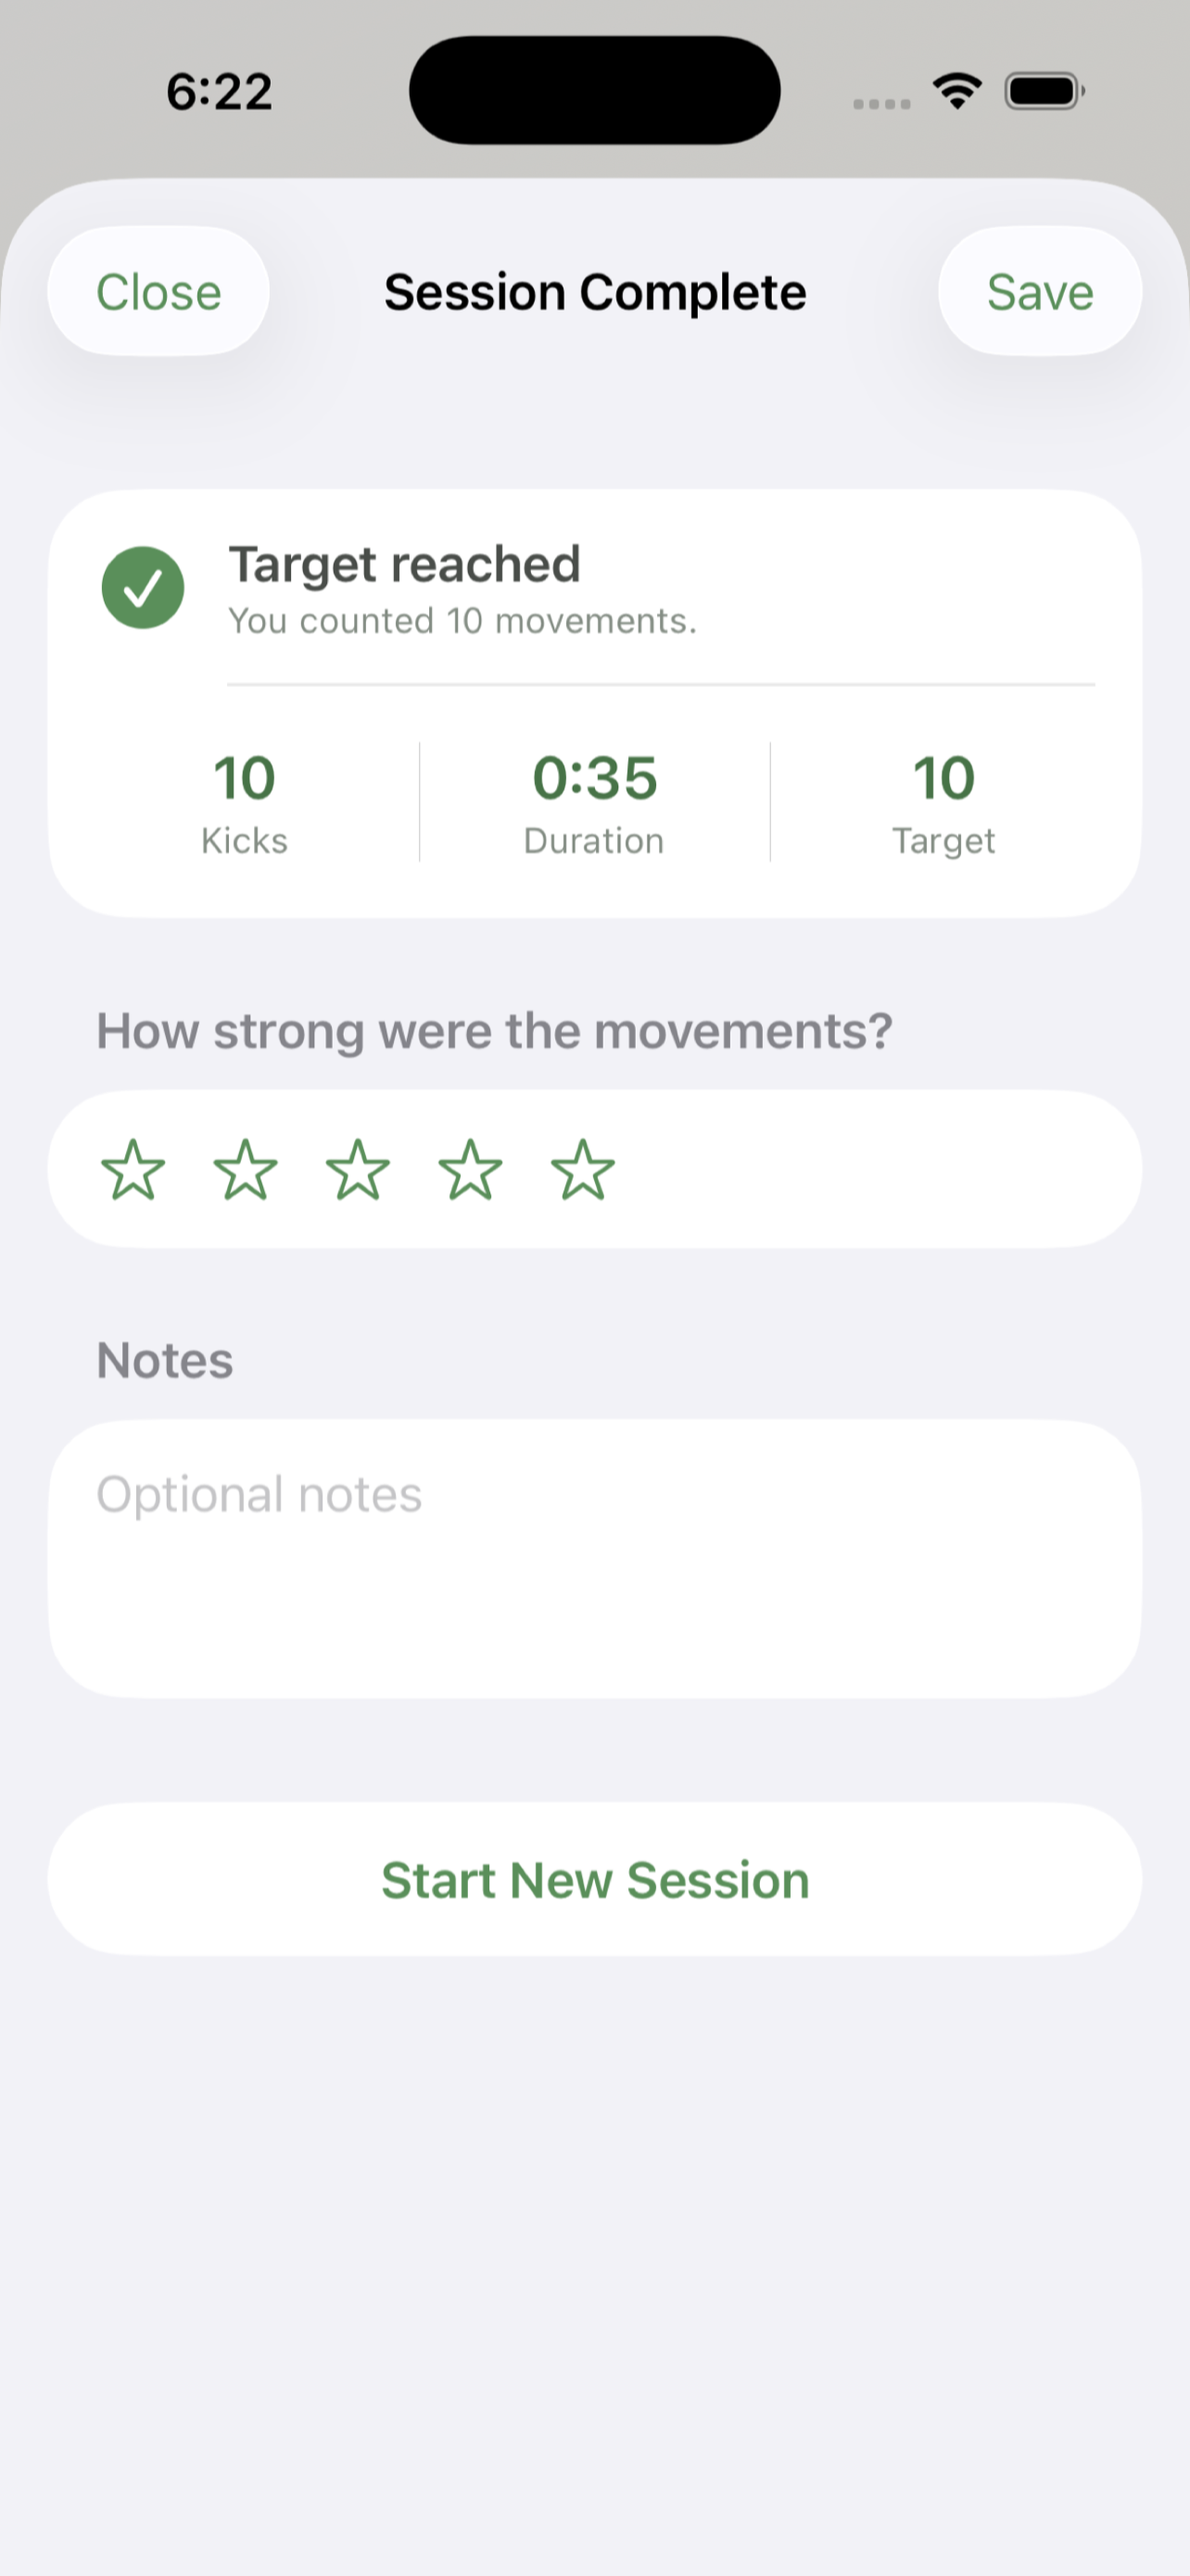
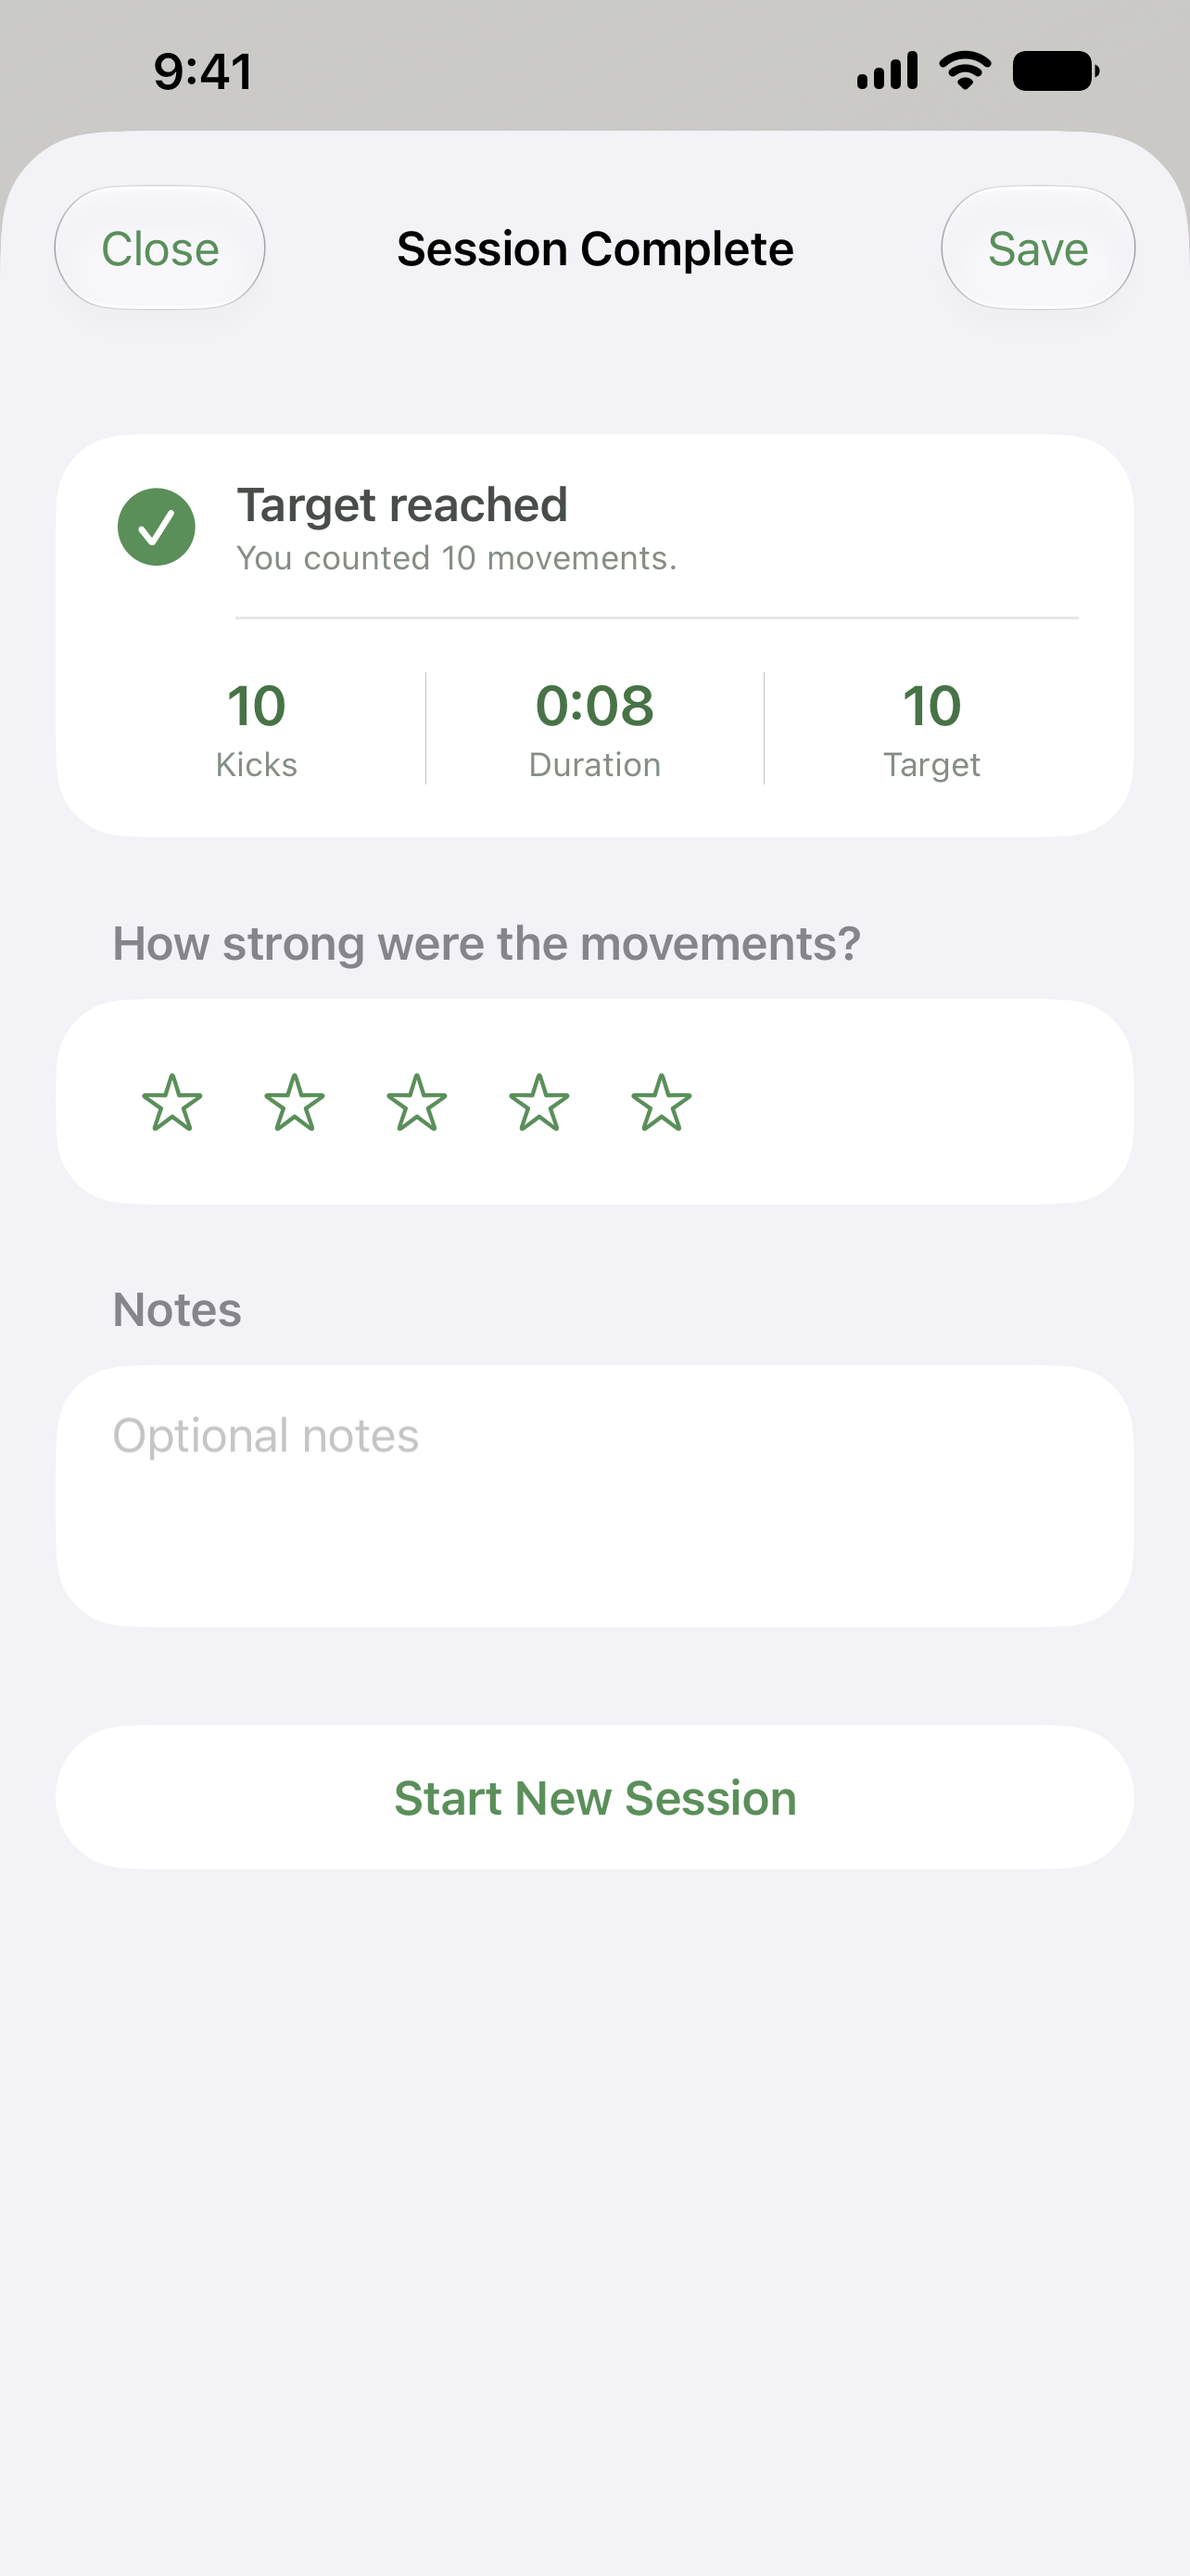
Re-capture App Store screenshots; automate the capture
The uploaded set no longer matched the binary. Most visibly it showed the
app titled "Baby Kick Count" while the build now says "Littletaps" — a
product page naming a different app than the submission is the kind of
mismatch App Review flags. It also predated the light-appearance lock and
the 44pt hit-target work, so row heights were wrong.

Capturing by hand is what let it drift, so this adds a UI test that walks
the app through all nine screens and a script that runs it on a freshly
erased simulator per size. Both required sizes come out of one command:
1320x2868 on iPhone 17 Pro Max for the 6.9-inch slot Apple now requires,
and 1284x2778 on iPhone 14 Plus for the 6.5-inch slot.

The new set is also more consistent than the old one, which had four
different clock times across nine shots and caught two screens
mid-animation — a ghosted tab bar on the counter, a half-scrolled row in
settings. Status bars are pinned to 9:41 with full signal and battery,
and each capture waits for the screen to settle.

Two things the first runs exposed. Onboarding navigation tapped "Next"
twice and assumed both landed; one was swallowed by the page transition,
leaving the test hunting for a button one page ahead. It now waits for
each destination heading to become hittable and retries. And xcodebuild
does not exit after a UI test run on a headless simulator — the tests
pass, then it sleeps indefinitely at 0% CPU — so the script waits for the
[…]

diff --git a/ios/BabyKickCountUITests/ScreenshotCaptureTests.swift b/ios/BabyKickCountUITests/ScreenshotCaptureTests.swift
@@ -1,0 +1,198 @@
+import XCTest
+
+/// Captures the App Store product-page screenshots.
+///
+/// This is tooling rather than a regression test. It walks the app through each
+/// screen and writes full-resolution PNGs into the test runner's Documents
+/// directory, where `Scripts/capture-screenshots.sh` collects them.
+///
+/// It is skipped unless that script asks for it, because it needs a freshly
+/// installed app to reach onboarding and it leaves a completed session behind.
+/// Screenshots have to match the submitted binary, so re-run the script after
+/// any visual change rather than editing the PNGs.
+final class ScreenshotCaptureTests: XCTestCase {
+
+    private var app: XCUIApplication!
+    private var outputDirectory: URL!
+
+    override func setUpWithError() throws {
+        try XCTSkipUnless(
+            ProcessInfo.processInfo.environment["CAPTURE_SCREENSHOTS"] == "1",
+            "run ios/Scripts/capture-screenshots.sh to regenerate the App Store screenshots"
+        )
+        continueAfterFailure = false
+        outputDirectory = try makeOutputDirectory()
+        app = XCUIApplication()
+    }
+
+    func testCaptureAppStoreScreenshots() throws {
+        app.launch()
+
+        // 1-3: onboarding, which only appears on a fresh install. That is why
+        // the script erases the simulator before each run.
+        XCTAssertTrue(
+            waitUntilVisible(app.staticTexts["Welcome to Littletaps"], timeout: 25),
+            "onboarding did not appear — the app was probably already installed"
+        )
+        settle()
+        capture("01_onboarding_welcome")
+
+        advanceOnboarding(to: "One tap at a time")
+        capture("02_onboarding_tap")
+
+        advanceOnboarding(to: "2-hour session")
+        capture("03_onboarding_timer")
+
+        let getStarted = app.buttons["Get Started"]
+        XCTAssertTrue(waitUntilVisible(getStarted), "onboarding never reached 'Get Started'")
+        getStarted.tap()
+
+        // 4: the counter before anything is recorded.
+        let pad = app.buttons["Tap to record a kick"]
+        XCTAssertTrue(waitUntilVisible(pad, timeout: 15), "tap pad not found")
+        settle()
+        capture("04_counter_ready")
+
+        // 5: mid-session. Three of ten, matching the previous set.
+        tapPad(pad, times: 3)
+        settle()
+        capture("05_counter_active")
+
+        // 6: the summary sheet, which presents itself on the tenth tap.
+        tapPad(pad, times: 7)
+        let close = app.buttons["Close"]
+        XCTAssertTrue(waitUntilVisible(close, timeout: 15), "summary sheet did not present")
+        settle()
+        capture("06_session_summary")
+
+        close.tap()
+        settle()
+
+        // 7: history, now holding the session just completed.
+        goToTab("History")
+        settle()
+        capture("07_history")
+
+        // 8: settings.
+        goToTab("Settings")
+        settle()
+        capture("08_settings")
+
+        // 9: the information screen, which carries the medical disclaimer.
+        let info = app.buttons["Information & Help"]
+        var swipes = 0
+        while !info.exists && swipes < 6 {
+            app.swipeUp()
+            settle()
+            swipes += 1
+        }
+        XCTAssertTrue(
+            info.waitForExistence(timeout: 5),
+            "could not reach 'Information & Help' after \(swipes) swipes"
+        )
+        info.tap()
+        settle()
+        capture("09_info")
+    }
+
+    // MARK: - Helpers
+
+    /// Page transitions, the sheet presentation and the tab switch are all
+    /// animated. The previous screenshot set was captured mid-animation — a
+    /// ghosted tab bar in the counter shot, a half-scrolled row in settings —
+    /// so wait for things to come to rest before capturing.
+    private func settle() {
+        usleep(1_500_000)
+    }
+
+    /// `waitForExistence` is not enough here: an element can be in the tree
+    /// while it is still sliding into place, and a tap sent then is dropped.
+    private func waitUntilVisible(_ element: XCUIElement, timeout: TimeInterval = 10) -> Bool {
+        let deadline = Date().addingTimeInterval(timeout)
+        while Date() < deadline {
+            if element.exists && element.isHittable { return true }
+            usleep(200_000)
+        }
+        return false
+    }
+
+    /// Advances one onboarding page and confirms it landed.
+    ///
+    /// The button relabels itself from "Next" to "Get Started" on the last
+    /// page, so the button alone cannot tell you which page you are on — the
+    /// page heading can. A tap issued during the page transition is silently
+    /// swallowed, which is exactly how a previous run ended up two pages in
+    /// after three taps, so retry until the destination heading appears.
+    private func advanceOnboarding(to heading: String,
+                                   file: StaticString = #filePath,
+                                   line: UInt = #line) {
+        let destination = app.staticTexts[heading]
+        let next = app.buttons["Next"]
+
+        for attempt in 1...3 {
+            if waitUntilVisible(destination, timeout: 1) { break }
+
+            XCTAssertTrue(waitUntilVisible(next),
+                          "onboarding 'Next' button never became tappable",
+                          file: file, line: line)
+            next.tap()
+
+            if waitUntilVisible(destination, timeout: 6) { break }
+            XCTAssertLessThan(attempt, 3,
+                              "onboarding never advanced to '\(heading)'",
+                              file: file, line: line)
+        }
+        settle()
+    }
+
+    private func tapPad(_ pad: XCUIElement, times: Int) {
+        for _ in 0..<times {
+            guard pad.isEnabled, pad.isHittable else { return }
+            pad.tap()
+            usleep(400_000)
+        }
+    }
+
+    private func goToTab(_ name: String,
+                         file: StaticString = #filePath,
+                         line: UInt = #line) {
+        let tab = app.buttons[name]
+        XCTAssertTrue(waitUntilVisible(tab, timeout: 15),
+                      "could not reach the \(name) tab", file: file, line: line)
+        tab.tap()
+    }
+
+    private func capture(_ name: String,
+                         file: StaticString = #filePath,
+                         line: UInt = #line) {
+        let screenshot = XCUIScreen.main.screenshot()
+
+        // Attached as well as written out, so a failed run still leaves the
+        // partial set visible in the .xcresult.
+        let attachment = XCTAttachment(screenshot: screenshot)
+        attachment.name = name
+        attachment.lifetime = .keepAlways
+        add(attachment)
+
+        do {
+            try screenshot.pngRepresentation.write(
+                to: outputDirectory.appendingPathComponent("\(name).png")
+            )
+        } catch {
+            XCTFail("could not write \(name).png: \(error)", file: file, line: line)
+        }
+    }
+
+    private func makeOutputDirectory() throws -> URL {
+        let documents = try FileManager.default.url(
+            for: .documentDirectory, in: .userDomainMask,
+            appropriateFor: nil, create: true
+        )
+        let directory = documents.appendingPathComponent("AppStoreScreenshots", isDirectory: true)
+        // Start clean so a partial run cannot leave stale files behind for the
+        // script to collect and mistake for the current set.
+        try? FileManager.default.removeItem(at: directory)
+        try FileManager.default.createDirectory(at: directory, withIntermediateDirectories: true)
+        return directory
+    }
+}

diff --git a/TODO.md b/TODO.md
@@ -61,8 +61,8 @@ pregnancy,fetal movement,third trimester,OB,midwife,prenatal,maternity,timer,wel
 - [x] Choose primary/secondary categories. Saved as Health & Fitness primary and no secondary category.
 - [x] Confirm pricing and availability. Saved April 26, 2026 as free (`$0.00`) with 175 countries/regions available on app release.
 - [x] Upload 1-10 screenshots using Apple's current required iPhone sizes. App Store Connect shows `9 of 10 Screenshots` for the 6.5-inch display. Source files are in `app_store_screenshots/iphone_6_7/*` as exact `1284 x 2778` PNGs; keep `app_store_screenshots/iphone_6_9/*` only as the original `1320 x 2868` source set.
-- [ ] Capture screenshots from a fresh simulator or device with fictional data only. Suggested set: onboarding, active counter, completed summary, history calendar, settings/export, information disclaimer.
-- [ ] Make screenshots match the submitted build exactly. Do not show features that are not in the binary.
+- [x] Capture screenshots from a fresh simulator or device with fictional data only. `ios/Scripts/capture-screenshots.sh` drives `ScreenshotCaptureTests` on a freshly erased simulator per size, so the only data on screen is the one session the test records.
+- [x] Make screenshots match the submitted build exactly. Re-captured July 29, 2026. The previous set was genuinely stale: it showed the app titled `Baby Kick Count`, while the binary now says `Littletaps`.
 - [x] Verify the 1024 x 1024 app icon has no transparency, matches the website branding, and looks good on light/dark App Store surfaces. `sips` reports `1024 x 1024` and `hasAlpha: no`.
 - [x] Once App Store Connect generates the Apple app ID, update the website smart banner meta tag with `app-id=6763963304`.
 
@@ -115,7 +115,7 @@ Applied in this pass:
 Still open, not applied:
 
 - [ ] Confirm which iPhone screenshot slot is filled in App Store Connect. The P1 note above says the `1284 x 2778` set went into the 6.5-inch slot and the `1320 x 2868` set was kept "only as the original source". Apple now treats the 6.9-inch display as the required iPhone size — upload `app_store_screenshots/iphone_6_9/*` to the 6.9-inch slot.
-- [ ] Re-capture screenshots after the light-appearance change and the accessibility tweaks so they match the submitted binary (the history row is now slightly taller).
+- [x] Re-capture screenshots after the light-appearance change and the accessibility tweaks so they match the submitted binary. Done July 29, 2026 via `ios/Scripts/capture-screenshots.sh`, which regenerates both sizes. Status bars are pinned to 9:41 with full signal and battery, and every shot is taken on a settled screen — the old set had four different clock times and two shots caught mid-animation.
 - [x] `SessionViewModel.startTicking()` spawns a `Task` loop that is only cancelled by `stopTicking()`. Added `deinit { timerTask?.cancel() }`; it compiles clean under Swift 5.9 with no MainActor isolation warning.
 - [ ] `SessionViewModel.pause()`, `resume()`, and `undo()` mutate the `KickSession` model object without reassigning the `@Published var session`. This works today only because SwiftData `@Model` types are `Observable`; it is fragile. Verify the count actually decrements on screen after Undo, and that Pause/Resume flip the UI.
 - [ ] `UserPreferences.defaultTargetCount` and `defaultTimeLimitSec` are persisted but have no Settings UI, so they are permanently 10 and 7200. Either expose them or drop them. Relatedly, `TimerDisplay` takes a `timeLimitSec` parameter it never uses.
